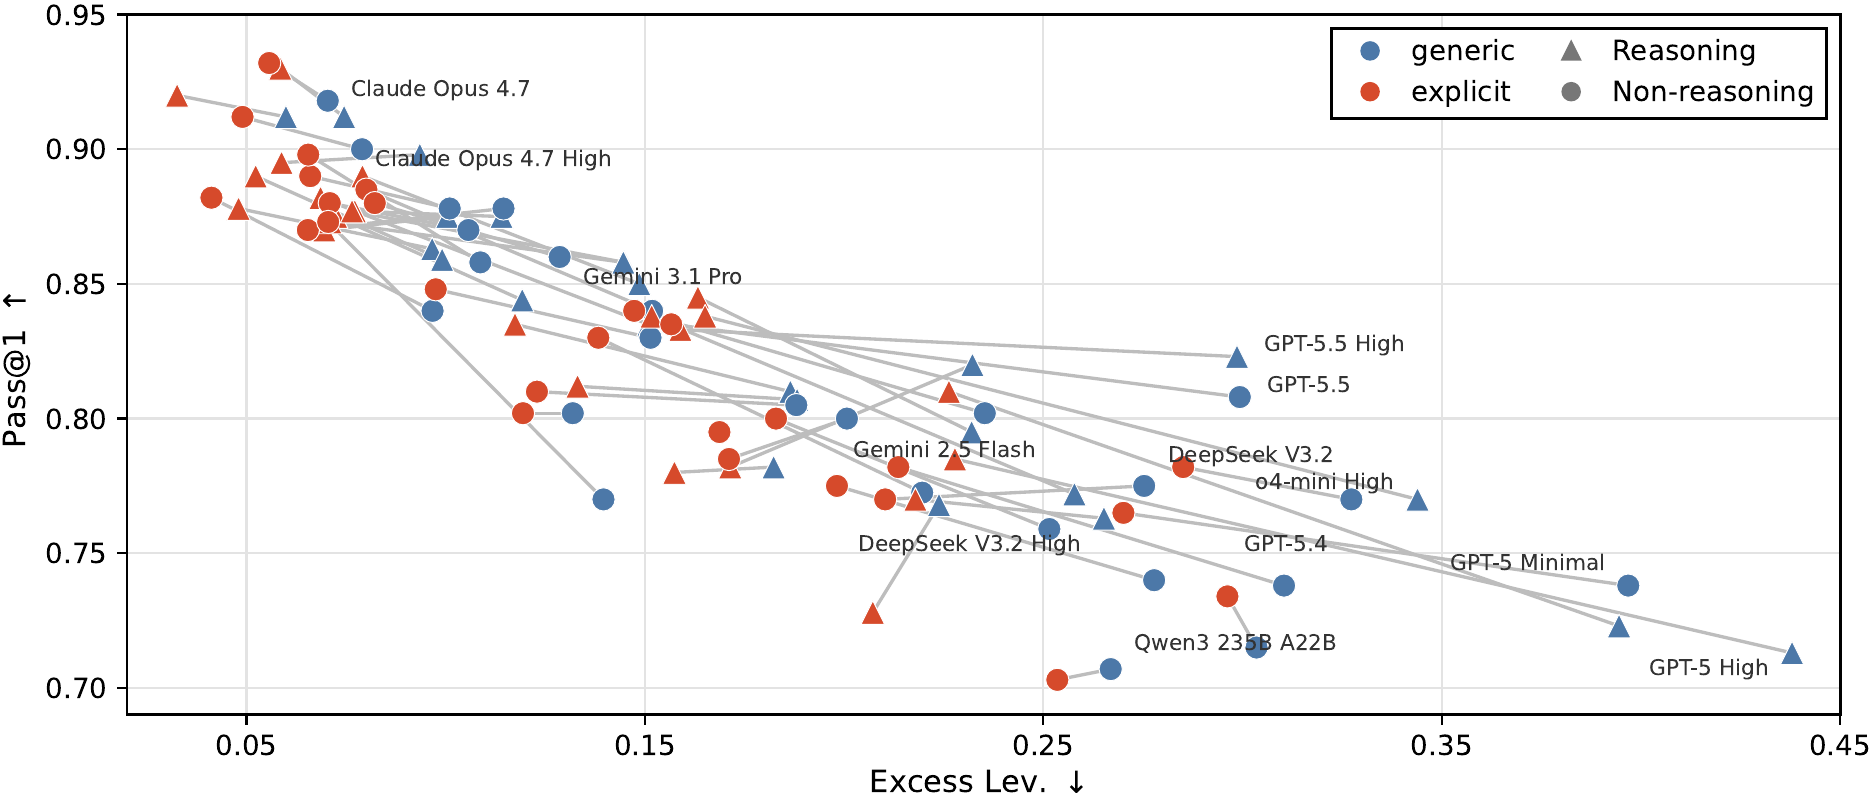
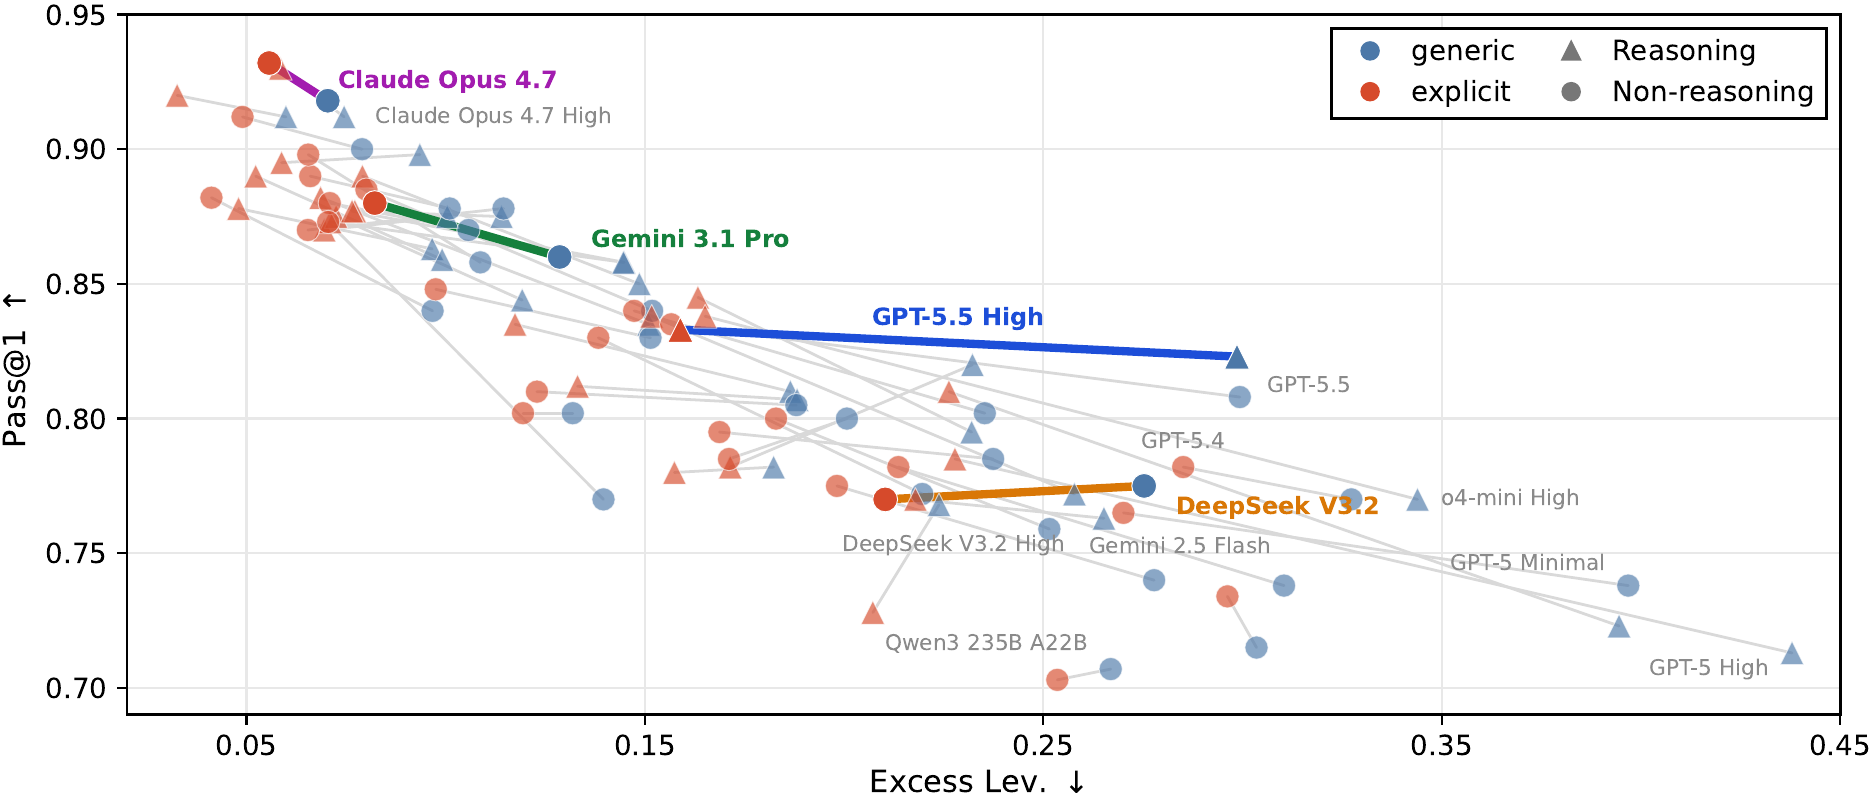
Sync release README to the final camera-ready
The paper is now final (\usepackage[final]{acl}, both revision macros
rendered black), and several things it asserts moved since the first
pass over this repo.

Numbers. The aggregate preservation-prompt effect was restated: excess
Levenshtein 0.194 -> 0.130 becomes 0.195 -> 0.131, added cognitive
complexity 27.0% -> 26.6%, and Pass@1 +2.2 -> +2.3 points. Added the
per-setting result that came with it: the clause shifts all 50
model-prompt settings toward smaller edits and lifts Pass@1 in 40 of 50,
with GPT-5.5 High nearly halving its excess distance (0.299 -> 0.159)
while Opus 4.7 barely moves. Every other figure the README quotes --
the training table, the open-weight ablation, the corruption breakdown,
and the benchmark statistics -- is unchanged; all 48 numbers in the
results section were re-checked against the paper source.

Figures. Figure 1 was redrawn for the camera-ready (fig-1-v2), now
showing the minimal patch and six frontier models side by side rather
than one model's rewrite, so the teaser and its caption are replaced.
The frontier scatter was regenerated on 09-01 and now highlights four
model families; refreshed and recaptioned. The size sweep and RL curves
are untouched upstream and keep their existing renders.

Authors. The camera-ready carries the real author block: Tongyao Zhu and
Wei Hern Lim contributed equally, Min-Yen Kan corresponding, all at NUS.
Corrected the name order (Wei Hern Lim, not Lim Wei Hern) in the byline
[…]

diff --git a/README.md b/README.md
@@ -1,6 +1,8 @@
 # 🩹 [EMNLP 2026] When Models Edit Too Much: On the Fidelity of Minimal Code Edits
 
-Tongyao Zhu, Lim Wei Hern, and Min-Yen Kan
+Tongyao Zhu\*, Wei Hern Lim\*, and Min-Yen Kan<sup>†</sup>
+
+<sub>National University of Singapore &middot; \*Equal contribution &middot; <sup>†</sup>Corresponding author</sub>
 
 [![License](https://img.shields.io/badge/license-Apache--2.0-blue.svg)](LICENSE)
 [![Python](https://img.shields.io/badge/python-3.11%2B-green.svg)](pyproject.toml)
@@ -9,9 +11,9 @@ Tongyao Zhu, Lim Wei Hern, and Min-Yen Kan
 <!-- TODO(link): add an arXiv / ACL Anthology badge and URL here once the paper link is live. -->
 
 <p align="center">
-  <img src="assets/figures/over_editing_example.png" alt="A one-line boundary bug repaired by rewriting validation, data conversion, curve fitting, and plotting logic" width="100%">
+  <img src="assets/figures/over_editing_example.png" alt="One off-by-one bug repaired by a minimal patch and by six frontier models, every patch passing the same tests" width="62%">
   <br>
-  <sub>The bug is one <code>range()</code> endpoint. The model fixes it — and rewrites validation, data conversion, curve fitting, and plotting on the way. The tests still pass.</sub>
+  <sub>One off-by-one bug in a BigCodeBench function. The minimal fix changes a single line; GPT-5.4 adds 60 lines of validation, dtype coercion, NaN masking, and resampling that no test requires. Every patch shown passes all five tests — edit fidelity is what separates them.</sub>
 </p>
 
 This repository accompanies our EMNLP 2026 main conference paper, *When Models Edit Too Much: On the Fidelity of Minimal Code Edits*. 🔧
@@ -33,7 +35,7 @@ We score every repair on three axes:
 | Question | What we find |
 | --- | --- |
 | 🤖 Do frontier models over-edit? | Yes, and correctness does not predict it. GPT-5.5, DeepSeek, and Gemini variants reach competitive Pass@1 while changing far more code than the minimal reversal. Claude Opus 4.7 shows the two *can* coexist. |
-| 💬 Does one sentence help? | Substantially. Adding a single preservation instruction drops aggregate excess Levenshtein distance from **0.194 → 0.130**, cuts added cognitive complexity by **27.0%**, and *raises* Pass@1 by **2.2 points** (matched-pair signed-rank *p* < 10⁻⁴). |
+| 💬 Does one sentence help? | Substantially. Adding a single preservation clause drops aggregate excess Levenshtein distance from **0.195 → 0.131**, cuts added cognitive complexity by **26.6%**, and *raises* Pass@1 by **2.3 points** (matched-pair signed-rank *p* < 10⁻⁴). It shifts all 50 model-prompt settings toward smaller edits and lifts Pass@1 in 40 of 50. |
 | 🧠 Is reasoning enough? | No. Reasoning effects are model-specific rather than monotonic — it helps some families on both metrics and hurts others. |
 | 📈 Is scale enough? | No. Across Qwen2.5-Coder 0.5B→32B, Pass@1 rises with size but edit fidelity does not improve monotonically. |
 | 🔓 Open-weight models too? | Same pattern. Preservation prompting moves average Pass@1 0.788 → 0.828 and excess Levenshtein 0.176 → 0.121. |
@@ -43,7 +45,7 @@ We score every repair on three axes:
 <p align="center">
   <img src="assets/figures/frontier_prompt_effect.png" alt="Pass@1 versus excess Levenshtein distance for frontier models under generic and explicit prompts" width="100%">
   <br>
-  <sub>Each connected pair is one model under the generic (blue) and preservation (red) prompt. Up and to the left is better.</sub>
+  <sub>Each connected pair is one model under the generic (blue) and explicit preservation (red) prompt; four families are highlighted. Up and to the left is better. The heaviest over-editors move furthest — GPT-5.5 High nearly halves its excess distance (0.299 → 0.159) — while the already-faithful Opus 4.7 barely moves.</sub>
 </p>
 
 **Minimal-edit post-training** on Qwen3-4B-Instruct-2507. Pass@1 is over all 400 evaluation examples; edit metrics are averaged over passing repairs. LCB is the absolute LiveCodeBench v6 score, with the change from the base model (32.6%) in parentheses.
